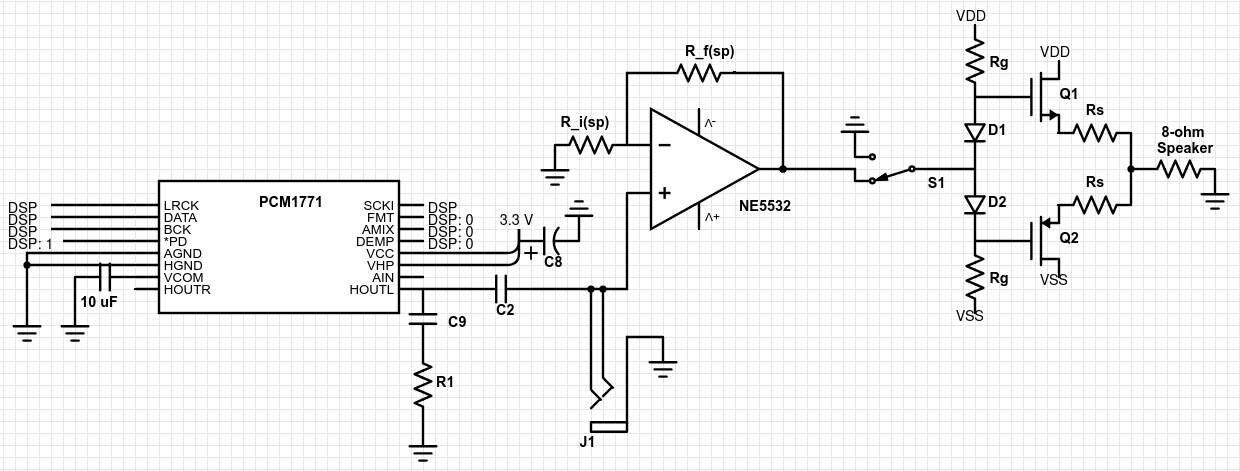
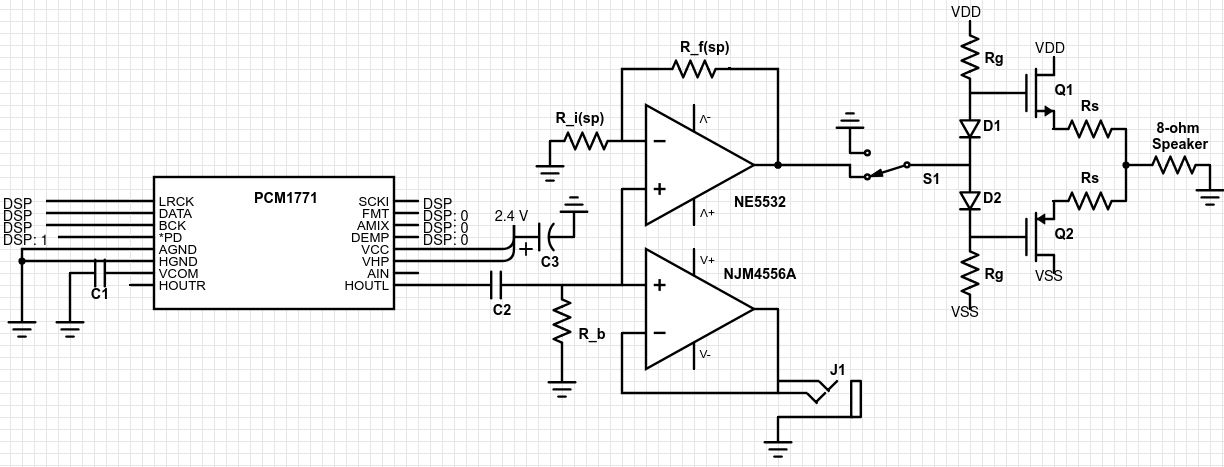
decide playback circuit values

Changed region(s): [[0.0, 0.0, 1.0, 1.0], [0.3105, 0.7794, 0.3725, 0.8694], [0.3105, 0.9293, 0.3725, 0.9593]]

diff --git a/README.md b/README.md
@@ -18,9 +18,9 @@ Above is the circuit diagram detailing how microphone input will be processed be
 
 1. We start at the voltage source labelled $V_{mic}$, this represents the microphone which converts your voice into an AC waveform with a very small amplitude. Microphones typically require a small amount of plug in power, so we connect the microphone to our $3.3 V$ source, with a resistor to limit current, and a capacitor to shunt noise to GND. J1 is a headphones jack that will close this circuit.
 2. Switch $S_1$ acts as an on/off switch for accepting microphone input. When in the downwards OFF position, the ADC should receive a constant $0 V$. In the upwards ON position, it should allow our microphone signal to pass to the next stage.
-3. Because the DC plug in power is on the same line as the AC output, we place a capacitor $C_1$ to recenter our AC waveform at $0 V$. 
+3. Because the DC plug in power is on the same line as the AC output, we place a capacitor $C_2$ to recenter our AC waveform at $0 V$. 
 4. Here we pass our microphone signal through a non-inverting amplifier circuit to get it to the ADC's desired amplitude.
-5. Now, our signal is ready to pass through the ADC and be processed by the DSP. The ADC was wired up according to the [datasheet](docs/sles011e.pdf) under the section "Application and Implementation".
+5. Now, our signal is ready to pass through the ADC and be processed by the DSP. The ADC was wired up according to the [datasheet](docs/pcm1808.pdf) under the section "Application and Implementation".
 
 ### Playback
 
@@ -28,14 +28,32 @@ Above is the circuit diagram detailing how microphone input will be processed be
 
 Above is the circuit diagram detailing how our DSP's digital output will be processed in order to be played on analog speakers. Assume all connections to the DSP have $100 \omega$ resistors.
 
-1. The DSP feeds digital input data representing our audio into the DAC, which converts it into an analog waveform. I specifically left $H_{out}R$ disconnected because we're dealing with mono sound. The DAC was wired up according to the [datasheet](docs/pcm1808.pdf) under the section "Application Information".
-2. At the DAC output, our signal is going to be centered at $1.65 V$, we send our signal through a capacitor to recenter it at $0 V$. Also, we use an RC high-pass filter to shunt the high frequency switching noise to ground.
-3. Now our signal is ready to be played on active speakers like those for headphones, as they require less power to operate.
-4. For those who want to use the onboard speaker, the signal lacks the amplitude required, so we pass it through a non-inverting amplifier to bring it up.
+1. The DSP feeds digital input data representing our audio into the DAC, which converts it into an analog waveform. I specifically left $H_{out}R$ disconnected because we're dealing with mono sound. The DAC was wired up according to the [datasheet](docs/sles011e.pdf) under the section "Application Information".
+2. At the DAC output, our signal is going to be centered at $1.65 V$, we send our signal through a capacitor to recenter it at $0 V$. Also, we use an RC high-pass filter to attenuate the high frequency switching noise.
+4. The signal reaches a junction where the top amplifier brings it to the amplitude required to be played on the onboard speaker, while the bottom one is simply there to prevent the headphones from altering the cutoff frequency of the preceeding high-pass filter. However, I chose a different amplifier due to increased current requirements.
 5. While our signal has the amplitude required, it lacks the current needed to produce loud and rich audio. We use two source follower amplifiers, one for the positive half-cycle, and one for the negative. The diodes bias these transistors so that they are held at the edge of saturation, which is required to prevent crossover distortion. I specifically chose source follower amplifiers because the gain is unity, keeping our signal at the amplitude we like.
-6. Now our audio signal is ready to be played on the speaker. Speakers can be modelled by an $8 \Omega$ impedance, showcasing their high current demands. This speaker will be onboard. The displacement of the speaker depends on the potential difference between its terminals.
+6. Now our audio signal is ready to be played on the speaker. Speakers can be modelled by an $8 \Omega$ impedance, showcasing their high current demands. This speaker will be onboard.
 
-## Parts
+Component Values:
+
+- Amplifier supply: $+5 V$ and $-5 V$
+- $R_{i(sp)}$: $3.3 k\Omega$
+- $R_{f(sp)}$: $10 k\Omega$
+- $V_{DD}$: $+5 V$
+- $V_{SS}$: $-5 V$
+- $C_1$: $10 \mu\text{F}$ Aluminum Electrolytic
+- $C_2$: $10 \mu\text{F}$ Aluminum Electrolytic
+- $R_b$: $10 k\Omega$
+- $C_3$: $100 nF$ Ceramic
+- $R_g$: $100 \Omega$
+- $R_s$: $0.47 \Omega$, $1 W$
+
+Important: 
+
+- $C_3$ MUST be placed as close as humanly possible to the $V_{cc}$ and $V_{HP}$ pins. Yes that means two capacitors. Same goes for $C_1$.
+- Both $R_g$ MUST be placed as close to the gate of the respective MOSFET as possible.
+
+## Components
 
 TBD
 
